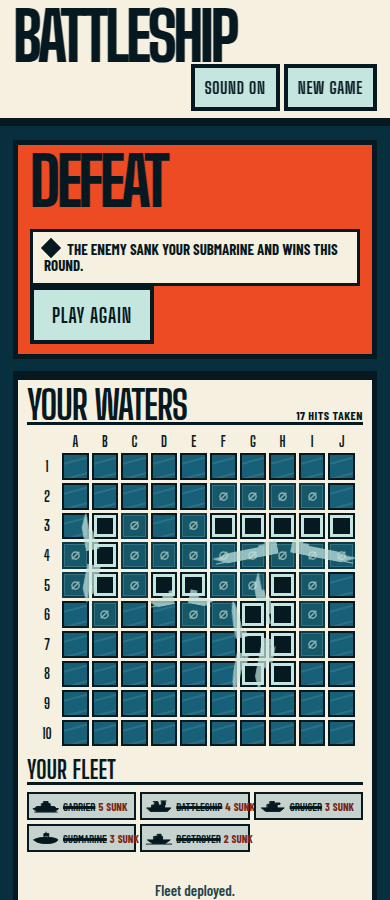
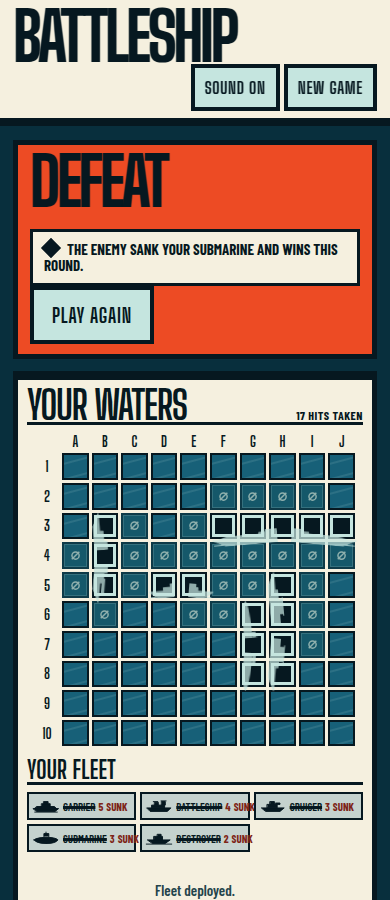
Keep wrecks inside ship footprints

diff --git a/src/styles.css b/src/styles.css
@@ -603,22 +603,22 @@ kbd {
 @keyframes wreck-half-a {
   from {
     opacity: 1;
-    transform: translate(0, 0) rotate(0deg);
+    transform: translate(0, 0) rotate(0deg) scale(1);
   }
   to {
     opacity: 0.72;
-    transform: translate(-9px, 6px) rotate(-11deg);
+    transform: translate(-5px, 0) rotate(-2deg) scale(0.9);
   }
 }
 
 @keyframes wreck-half-b {
   from {
     opacity: 1;
-    transform: translate(0, 0) rotate(0deg);
+    transform: translate(0, 0) rotate(0deg) scale(1);
   }
   to {
     opacity: 0.72;
-    transform: translate(9px, 5px) rotate(11deg);
+    transform: translate(5px, 0) rotate(2deg) scale(0.9);
   }
 }
 
@@ -830,13 +830,13 @@ kbd {
   .cell-vessel-half-a {
     animation: none;
     opacity: 0.72;
-    transform: translate(-9px, 6px) rotate(-11deg);
+    transform: translate(-5px, 0) rotate(-2deg) scale(0.9);
   }
 
   .cell-vessel-half-b {
     animation: none;
     opacity: 0.72;
-    transform: translate(9px, 5px) rotate(11deg);
+    transform: translate(5px, 0) rotate(2deg) scale(0.9);
   }
 
   *,
